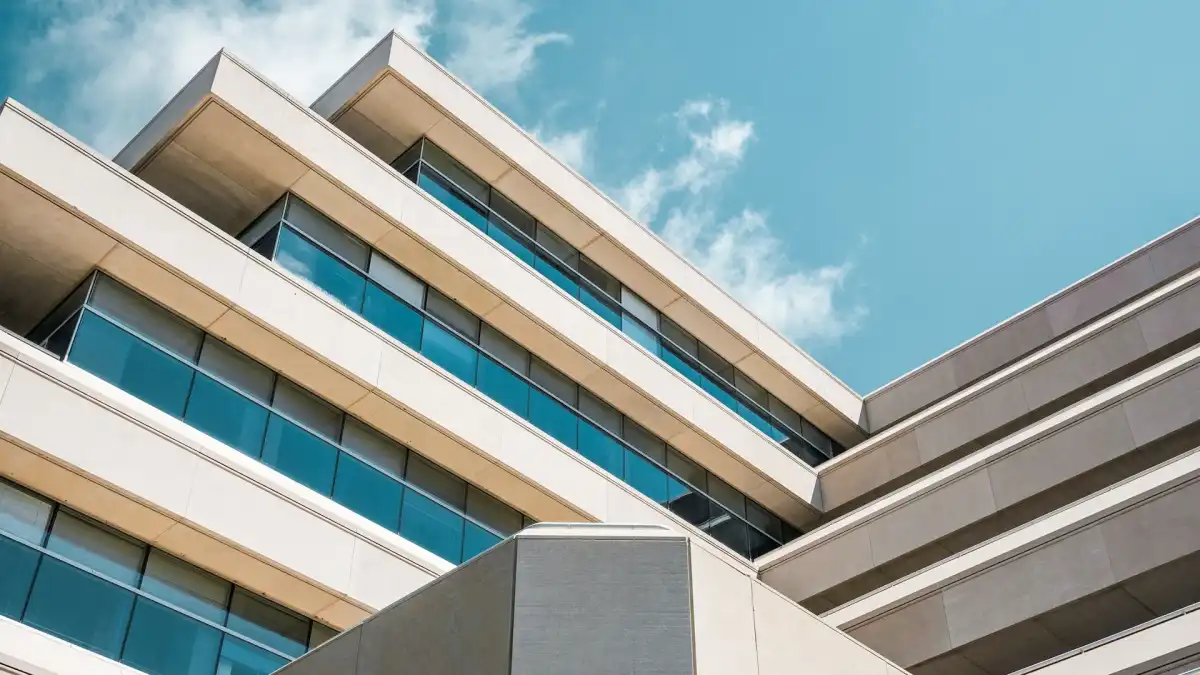
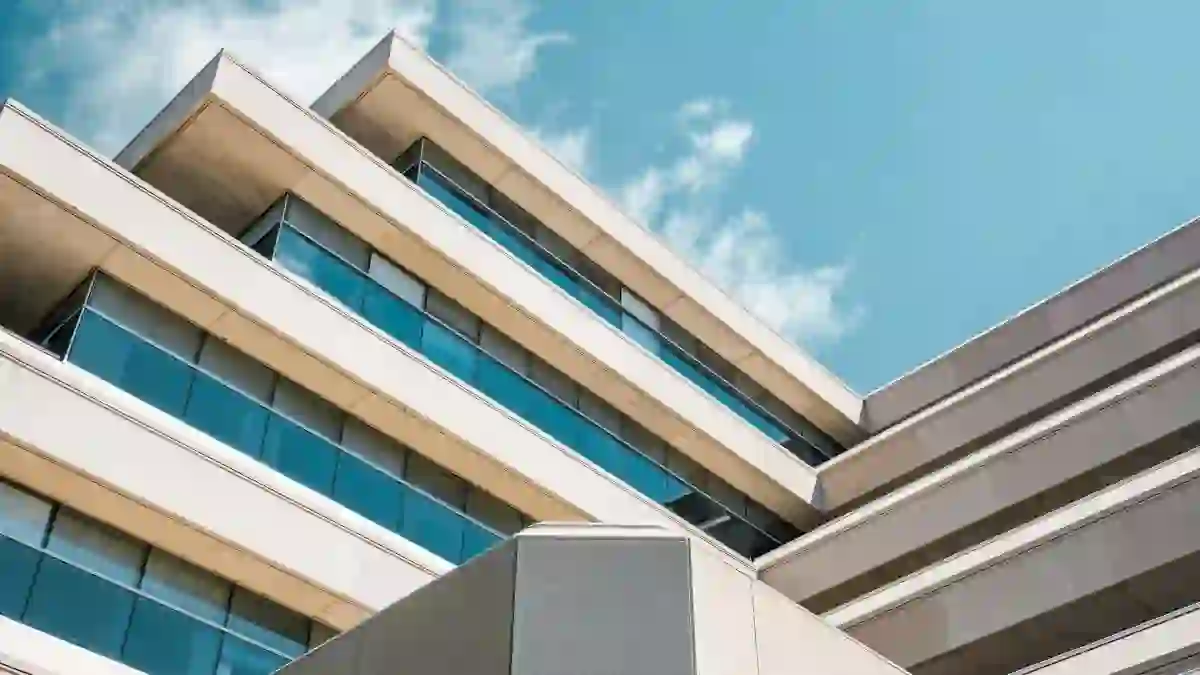
Convert bytes-per-pixel to bits-per-pixel

diff --git a/docroot/lqip-ultimate-blur.php b/docroot/lqip-ultimate-blur.php
@@ -7,9 +7,9 @@ $lqip_tiny_h = 9;
 $lqip_lcp_w = $display_w;
 $lqip_lcp_h = $display_h;
 $lqip_lcp_path = "images/hero.low-res.webp";
-$min_bpp = 0.05;
+$min_bpp = 0.05 / 8; // 0.05 bits per pixel, converted to bytes per pixel
 $min_size = intval($lqip_lcp_w * $lqip_lcp_h * $min_bpp);
-$target_bpp = 0.055;
+$target_bpp = 0.055 / 8; // 0.055 bits per pixel, converted to bytes per pixel
 $target_size = intval($lqip_lcp_w * $lqip_lcp_h * $target_bpp);
 
 // Generate tiny base64 LQIP
@@ -62,7 +62,7 @@ if (!file_exists($lqip_lcp_path)) {
   // Find the quality setting that gets us closest to the target size
   $best_quality = 75;
   $best_diff = PHP_INT_MAX;
-  for ($q = 10; $q <= 90; $q += 2) {
+  for ($q = 1; $q <= 90; $q += 2) {
     ob_start();
     imagewebp($lcp, null, $q);
     $data = ob_get_clean();

diff --git a/docroot/lqip-ultimate.php b/docroot/lqip-ultimate.php
@@ -7,9 +7,9 @@ $lqip_tiny_h = 8;
 $lqip_lcp_w = $display_w;
 $lqip_lcp_h = $display_h;
 $lqip_lcp_path = "images/hero.low-res.webp";
-$min_bpp = 0.05;
+$min_bpp = 0.05 / 8; // 0.05 bits per pixel, converted to bytes per pixel
 $min_size = intval($lqip_lcp_w * $lqip_lcp_h * $min_bpp);
-$target_bpp = 0.055;
+$target_bpp = 0.055 / 8; // 0.055 bits per pixel, converted to bytes per pixel
 $target_size = intval($lqip_lcp_w * $lqip_lcp_h * $target_bpp);
 
 // Generate tiny base64 LQIP
@@ -62,7 +62,7 @@ if (!file_exists($lqip_lcp_path)) {
   // Find the quality setting that gets us closest to the target size
   $best_quality = 75;
   $best_diff = PHP_INT_MAX;
-  for ($q = 10; $q <= 90; $q += 2) {
+  for ($q = 1; $q <= 90; $q += 2) {
     ob_start();
     imagewebp($lcp, null, $q);
     $data = ob_get_clean();
